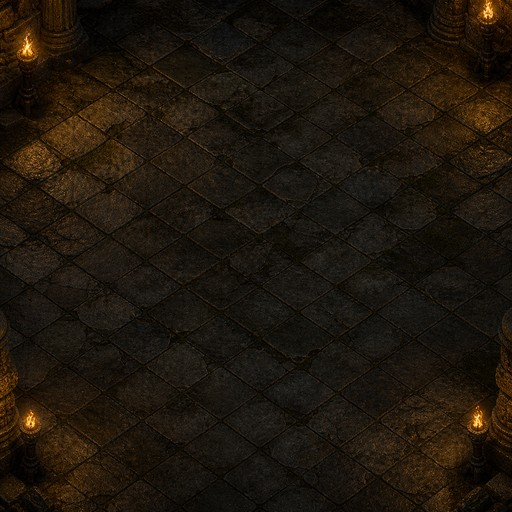
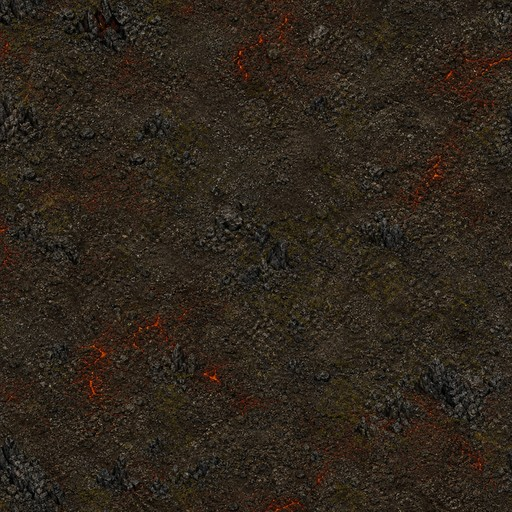
feat: add Red Stone hunting ground texture and [작업 6] classic scale + magic aura + gothic HUD

diff --git a/docs/TASK.md b/docs/TASK.md
@@ -149,3 +149,25 @@
 1. `npm run build` 성공 및 TypeScript 에러 0건.
 2. `docs/TASK.md`의 이번 요청을 `[x]`로 표시하고 `docs/WORKLOG.md` 상단에 5줄 이내로 작업 요약 기록.
 3. **토큰 절약**: 브라우저 실기 조작, Playwright/헤드리스 브라우저 실행, Computer Use 도구는 절대 실행하지 않는다.
+---
+
+## [작업 6] 붉은보석 원작 스타일 필드 시점 · 마법진 이펙트 · 고딕 금빛 하단 바
+- **등록일**: 2026-11-15
+- **목표**: 붉은보석 원작 실기 스크린샷 감성(넓은 쿼터뷰 사냥터 시야, 아담한 캐릭터·몹 비율, 발밑 원형 마법진/오라 이펙트, 고딕 금빛 하단 HUD 바)을 구현한다.
+
+### 작업 내용
+1. **원작 비율 캐릭터·몬스터 스케일 축소 & 넓은 사냥터 시야**:
+   - 전사·해골전사 스프라이트를 원작 MMORPG처럼 아담한 크기(**화면 높이의 약 10~13% 수준**, 보스는 **약 18~20%**)로 더 줄여, 한 화면에 사방에서 몰려오는 다수의 해골전사와 넓은 지형이 한눈에 들어오도록 한다.
+   - `public/assets/dungeon_tile.jpg`에 새로 반영된 붉은보석 사냥터 질감(거친 어두운 흙·자갈·용암 틈새)을 타일링 배경으로 깔고, 지형 위 바위·이끼·작은 불꽃 장식 포인트를 몇 군데 배치한다.
+
+2. **발밑 원형 마법진·불꽃 오라 이펙트 & 슬림 적 체력바**:
+   - 캐릭터 발밑에 전투/스킬 사용 시 회전하며 빛나는 **원형 마법진(청록/주황 불꽃 링) 2D 파티클·글로우 연출**을 추가한다(`전투 함성` 유지 중엔 상시 은은한 오라 회전, `회전 베기`/`대지 강타` 발동 시 화려한 링 폭발).
+   - 적 머리 위 또는 발밑에 붉은보석 스타일의 **슬림한 가로 빨간 HP 바**(보스는 이름 포함)를 표시한다.
+
+3. **하단 고딕 금빛 UI 바**:
+   - 맨 아래 `[내 상태]` · `[장비]` · `[스킬]` 버튼 바와 HP/MP 게이지 프레임을 어두운 철제 + 금빛 테두리(고전 다크 판타지 MMORPG 하단 바 스타일)로 정돈해 붉은보석 감성을 살린다.
+
+### 검증 및 완료 기준 (Codex Policy)
+1. `npm run build` 성공 및 TypeScript 에러 0건.
+2. `docs/TASK.md`의 이번 요청을 `[x]`로 표시하고 `docs/WORKLOG.md` 상단에 5줄 이내로 작업 요약 기록.
+3. **토큰 절약**: 브라우저 실기 조작, Playwright/헤드리스 브라우저 실행, Computer Use 도구는 절대 실행하지 않는다.
